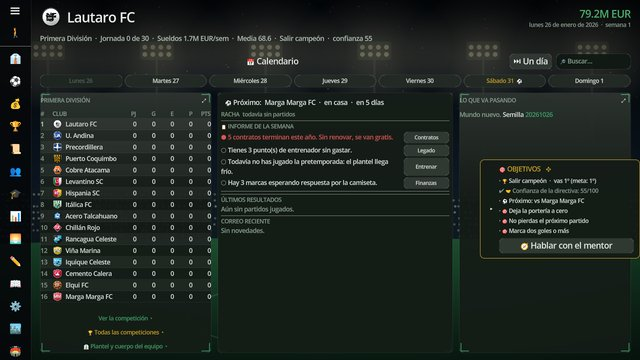
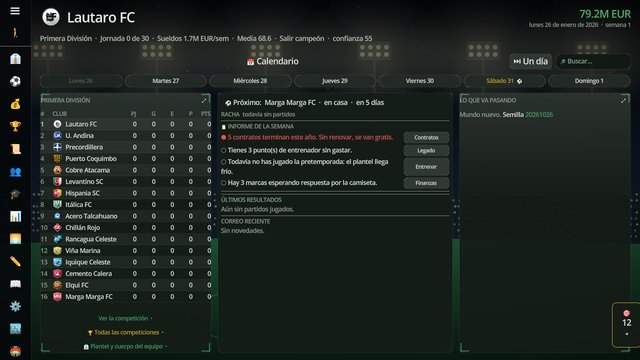
Auditoría 4 (interfaz), repaso 2: las pruebas visuales ya no dependen de las preferencias del jugador (panel de objetivos); referencia de inicio en estado limpio
Claude-Session: https://claude.ai/code/session_01VUJiyfwiM2ZPT2H3gaDzqg

diff --git a/docs/04_auditorias/MEGA_AUDITORIA_4/interfaz.md b/docs/04_auditorias/MEGA_AUDITORIA_4/interfaz.md
@@ -16,3 +16,5 @@ Escaneos automáticos sobre `ui/`, `nucleo/` y `visor/` + lectura de lo más del
 - [A4-INT-007] (repaso 2, gravedad: bajo) Pruebas que pulsaban el tutorial dejaban misiones «hechas» en `user://ajustes.cfg` y cambiaban el recorrido de las especiales siguientes (15 textos cortados en vez de 0). Estado: arreglado (`BaseIdea._respaldar_user/_restaurar_user`).
 - [A4-INT-008] (repaso 2, gravedad: bajo) El detector de castellano suelto daba falsos positivos en pt/ca/it/fr/pl (palabras compartidas) y faltaba el patrón de «La federación convoca sobre: …» en los 8 idiomas. Estado: arreglado (PR #164).
 - [A4-INT-009] (repaso 2, gravedad: bajo) La medición «se sale al 160 %» contaba controles dentro de columnas con desplazamiento horizontal (44 falsos positivos en de/fr/tr). Estado: arreglado (banco `accesibilidad_tutorial`, tope 0).
+- [A4-INT-010] (repaso 2, gravedad: medio) Las pruebas visuales (`pruebas/visual`) dependían de `user://ajustes.cfg`: con las preferencias de fábrica «inicio» salía distinto (panel de objetivos plegado) y con misiones hechas desplegado: no se repite igual según la máquina; la referencia de «inicio» se había rehecho con un `user://` sucio (mía, PR #160). Reproducir: borrar `user://*.cfg` y correr `herramientas/visual.sh` → «inicio no se parece». `pruebas/visual/visual.gd`. Estado: arreglado (la prueba aparta la sección `[objetivos]` mientras corre y la devuelve; referencia de «inicio» rehecha en estado limpio; pasa con estado limpio y con el sucio).
+- Ejecución de los 4 bancos de interfaz con `main` fusionado: `arranque` 0 fallos (295 s), `accesibilidad_tutorial` 0 (203 s), `idiomas` 0 (1675 s), `menu_navegacion` 1 fallo (la visual, ya arreglada: A4-INT-010).
